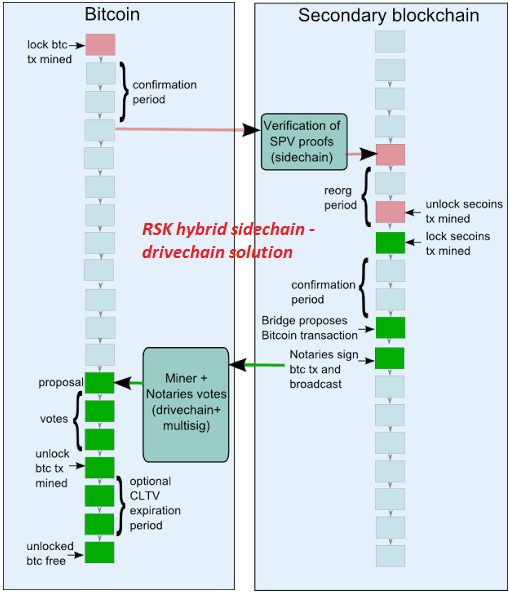
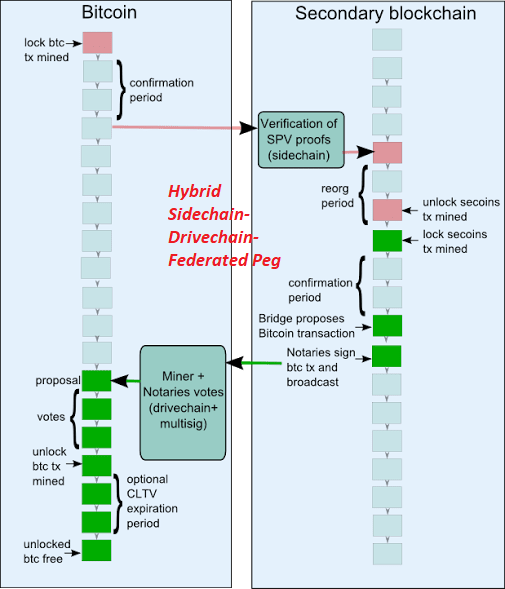
Added federated sidechains

diff --git a/layer2scaling/more-landscape/landscape-update.md b/layer2scaling/more-landscape/landscape-update.md
@@ -90,15 +90,21 @@ None
 
 ???
 
-### #3 Sidechains, Drivechains and 2WP
+### #3 2-Way Pegged Secondary Block Chains (*Sidechains, Drivechains, Federated Pegs*)
 
 #### What is it?
 
-A 2-way peg (2WP) allows the "transfer" of BTC from the main Bitcoin block chain to a secondary block chain and vice-versa by making use of an appropriate security protocol. The "transfer" actually involves BTC to be locked on the main Bitcoin block chain and unlocked/made available on the secondary block chain. The 2WP promise is concluded when an equivalent amount of tokens on the secondary block chain are locked (in the secondary block chain) so that the original bitcoins can be unlocked. [[22]](https://www.rsk.co/blog/sidechains-drivechains-and-rsk-2-way-peg-design)
+A 2-way peg (2WP) allows the "transfer" of BTC from the main Bitcoin block chain to a secondary block chain and vice-versa at a fixed rate by making use of an appropriate security protocol. The "transfer" actually involves BTC to be locked on the main Bitcoin block chain and unlocked/made available on the secondary block chain. The 2WP promise is concluded when an equivalent amount of tokens on the secondary block chain are locked (in the secondary block chain) so that the original bitcoins can be unlocked. ([[22]](https://www.rsk.co/blog/sidechains-drivechains-and-rsk-2-way-peg-design), [[28]](https://blockstream.com/technology/sidechains.pdf))
 
 *<u>Sidechain:</u> When the security protocol is implemented using Simplified Payment Verification (SPV) proofs - block chain transaction verification without downloading the entire block chain - the secondary block chain are referred to as a Sidechain.* [[22]](https://www.rsk.co/blog/sidechains-drivechains-and-rsk-2-way-peg-design)
 
-*<u>Drivechain:</u> When the security protocol is implemented by giving custody of the BTC to miners and/or notaries - where miners and/or the notaries vote when to unlock BTC and where to send them - the secondary block chain are referred to as a Drivechain.* [[22]](https://www.rsk.co/blog/sidechains-drivechains-and-rsk-2-way-peg-design)
+*<u>Drivechain:</u> When the security protocol is implemented by giving custody of the BTC to miners - where miners vote when to unlock BTC and where to send them - the secondary block chain are referred to as a Drivechain. In this scheme the miners will sign the block header using a Dynamic Membership Multi-party Signature (DMMS).* ([[22]](https://www.rsk.co/blog/sidechains-drivechains-and-rsk-2-way-peg-design), [[28]](https://blockstream.com/technology/sidechains.pdf))
+
+*<u>Federated Peg/Sidechain:</u> When the security protocol is implemented by having a trusted federation of mutually distrusting functionaries/notaries - the secondary block chain are referred to as a Federated Peg/Sidechain. In this scheme the DMMS is replaced with a traditional multi-signature scheme.* ([[22]](https://www.rsk.co/blog/sidechains-drivechains-and-rsk-2-way-peg-design), [[28]](https://blockstream.com/technology/sidechains.pdf))
+
+*<u>Hybrid Sidechain-Drivechain-Federated Peg:</u> When the security protocol is implemented by SPV proofs going to the secondary block chain and dynamic mixture of miner DMMS and functionaries/notaries multi-signatures going back to the main Bitcoin block chain  - the secondary block chain are referred to as a Hybrid Sidechain-Drivechain-Federated Peg.* ([[22]](https://www.rsk.co/blog/sidechains-drivechains-and-rsk-2-way-peg-design), [[28]](https://blockstream.com/technology/sidechains.pdf), [[29]](https://blockstream.com/strong-federations.pdf))
+
+Example of a 2WP Bitcoin secondary block chain using a Hybrid Sidechain-Drivechain-Federated Peg security protocol below [[22]](https://www.rsk.co/blog/sidechains-drivechains-and-rsk-2-way-peg-design): 
 
 ![RSK_hybrid_side_ drive_chain](./sources/RSK_hybrid_side_ drive_chain.png)
 
@@ -112,19 +118,27 @@ RSK (*formerly Rootstock*) is a 2WP Bitcoin secondary block chain using a hybrid
 
 Hivemind (formerly Truthcoin) is implementing a Peer-to-Peer Oracle Protocol which absorbs accurate data into a block chain so that Bitcoin users can speculate in Prediction Markets. [[24]](http://bitcoinhivemind.com)
 
+Blockstream is implementing a Federated Sidechain called Liquid, with the functionaries/notaries being made up of participating exchanges and Bitcoin businesses. [[29]](https://blockstream.com/strong-federations.pdf)
 
+![Blockstream-Federated-Sidechain](C:\Users\pluto\Documents\Code\tari-university\layer2scaling\more-landscape\sources\Blockstream-Federated-Sidechain.PNG)
 
 #### Strengths
 
-- 
+- <u>Permissionless Innovation:</u> Anyone can create a new block chain project that uses the underlying strengths of the main Bitcoin block chain using real BTC as the currency [[20]](http://www.drivechain.info)
+- <u>New Features:</u> Sidechains/Drivecahains can be used to test or implement new features without risk to the main Bitcoin block chain or without having to change its protocol, like Schnorr signatures and zero-knowledge proofs. ([[20]](http://www.drivechain.info), [[25]](http://drivechains.org/what-are-drivechains/what-does-it-enable))
+- <u>Chains-as-a-Service (CaaS) :</u> It is possible to create a CaaS with a data storage 2WP secondary block chains. [[25]](http://drivechains.org/what-are-drivechains/what-does-it-enable)
+- <u>Smart Contracts:</u> 2WP secondary block chains make it easier to implement smart contracts. [[25]](http://drivechains.org/what-are-drivechains/what-does-it-enable)
+- <u>Scalability:</u> 2WP secondary block chains can support larger block sizes and more transactions per second, thus scaling the Bitcoin main block chain. [[25]](http://drivechains.org/what-are-drivechains/what-does-it-enable)
 
 #### Weaknesses
 
-- 
+- <u>Security:</u> Transferring BTC back into the main Bitcoin block chain is not secure enough and can be manipulated because Bitcoin does not support SPV from 2WP secondary block chains. [[21]](http://www.truthcoin.info/blog/drivechain)
+- <u>51% attacks:</u> 2WP secondary block chains are hugely dependent on merged mining. As such, mining power centralization and 51% attacks are a real threat, as demonstrated for Namecoin and Huntercoin (See [Merged Mining Introduction](https://github.com/tari-labs/tari-university/blob/master/merged-mining/merged-mining-scene/MergedMiningIntroduction.md)).
+- The DMMS provided by mining is not very secure for small systems, while the trust of the federation/notaries is riskier for large systems. [[28]](https://blockstream.com/technology/sidechains.pdf)
 
 #### Opportunities for Tari
 
-
+None, if enough functionality will be built into the main Tari block chain.
 
 #### Threats for Tari
 
@@ -136,11 +150,9 @@ None
 
 Lumino Transaction Compression Protocol (LTCP) is a technique for transaction compression that allows processing a higher volume of transactions but storing much less information. The Lumino network is a lightning-like extension of the RSK platform that uses LTCP. Delta (difference) compression of selected fields of transactions from the same owner are done by using aggregate signing of previous transactions so previous signatures can be disposed. [[17]](https://uploads.strikinglycdn.com/files/ec5278f8-218c-407a-af3c-ab71a910246d/LuminoTransactionCompressionProtocolLTCP.pdf)
 
-Each transaction contains a set of persistent fields called the Persistent Transaction Information (PTI) and a compound record of user transaction data called the SigRec. A Lumino block stores two Merkle trees - one containing all PTIs and the other all transaction IDs (hash of the signed SigRec). This second Merkle tree is conceptually similar to the Segwit witness tree, thus forming the witness part. Docking is the process where SicRec and signature data can be pruned from the block chain if valid linked PTI information exist.  [[17]](https://uploads.strikinglycdn.com/files/ec5278f8-218c-407a-af3c-ab71a910246d/LuminoTransactionCompressionProtocolLTCP.pdf)
+Each transaction contains a set of persistent fields called the Persistent Transaction Information (PTI) and a compound record of user transaction data called the SigRec. A Lumino block stores two Merkle trees - one containing all PTIs and the other all transaction IDs (hash of the signed SigRec). This second Merkle tree is conceptually similar to the Segwit witness tree, thus forming the witness part. Docking is the process where SicRec and signature data can be pruned from the block chain if valid linked PTI information exist. [[17]](https://uploads.strikinglycdn.com/files/ec5278f8-218c-407a-af3c-ab71a910246d/LuminoTransactionCompressionProtocolLTCP.pdf)
 
 ![LuminoDataPruning](./sources/LuminoDataPruning.PNG)
-
-[[20]](http://www.drivechain.info)  [[21]](http://www.truthcoin.info/blog/drivechain)  
 
 #### Who does it?
 
@@ -285,17 +297,25 @@ None
 
 [19] RSK Blog website, https://media.rsk.co/, Date accessed: 2018-07-16.
 
-[[20]](http://www.drivechain.info)  [[21]](http://www.truthcoin.info/blog/drivechain)  
-
 [20] Drivechain: Enabling Bitcoin Sidechain, http://www.drivechain.info, Date accessed: 2018-07-17.
 
 [21] Drivechain - The Simple Two Way Peg, http://www.truthcoin.info/blog/drivechain, Date accessed: 2018-07-17.
 
-[22] Sidechains, Drivechains, and RSK 2-Way peg Design, https://www.rsk.co/blog/sidechains-drivechains-and-rsk-2-way-peg-design, Date accessed: 2018-07-17.
+[22] Sidechains, Drivechains, and RSK 2-Way peg Design, https://www.rsk.co/blog/sidechains-drivechains-and-rsk-2-way-peg-design or https://uploads.strikinglycdn.com/files/27311e59-0832-49b5-ab0e-2b0a73899561/Drivechains_Sidechains_and_Hybrid_2-way_peg_Designs_R9.pdf, Date accessed: 2018-07-18.
 
-[23] Pay to script hash, https://en.bitcoin.it/wiki/Pay_to_script_hash, Date accessed: 2018-07-17.
+[23] Pay to script hash, https://en.bitcoin.it/wiki/Pay_to_script_hash, Date accessed: 2018-07-18.
 
-[24] Hivemind website, http://bitcoinhivemind.com, Date accessed: 2018-07-17.
+[24] Hivemind website, http://bitcoinhivemind.com, Date accessed: 2018-07-18.
+
+[25] Drivechains: What do they enable? Cloud 3.0 Services Smart Contracts and Scalability, http://drivechains.org/what-are-drivechains/what-does-it-enable, Date accessed: 2018-07-19.
+
+[26] Bloq’s Paul Sztorc on the 4 Main Benefits of Sidechains, https://bitcoinmagazine.com/articles/bloq-s-paul-sztorc-on-the-main-benefits-of-sidechains-1463417446, Date accessed: 2018-07-19.
+
+[27] Blockstream website, https://blockstream.com/technology, Date accessed: 2018-07-19.
+
+[28] Enabling Blockchain Innovations with Pegged Sidechains, Back A. et. al., 2014-10-22, https://blockstream.com/technology/sidechains.pdf, Date accessed: 2018-07-19.
+
+[29] Strong Federations: An Interoperable Blockchain Solution to Centralized Third Party Risks, Dilley J. et. al., https://blockstream.com/strong-federations.pdf, Date accessed: 2018-07-19.
 
 ## Contributors
 
